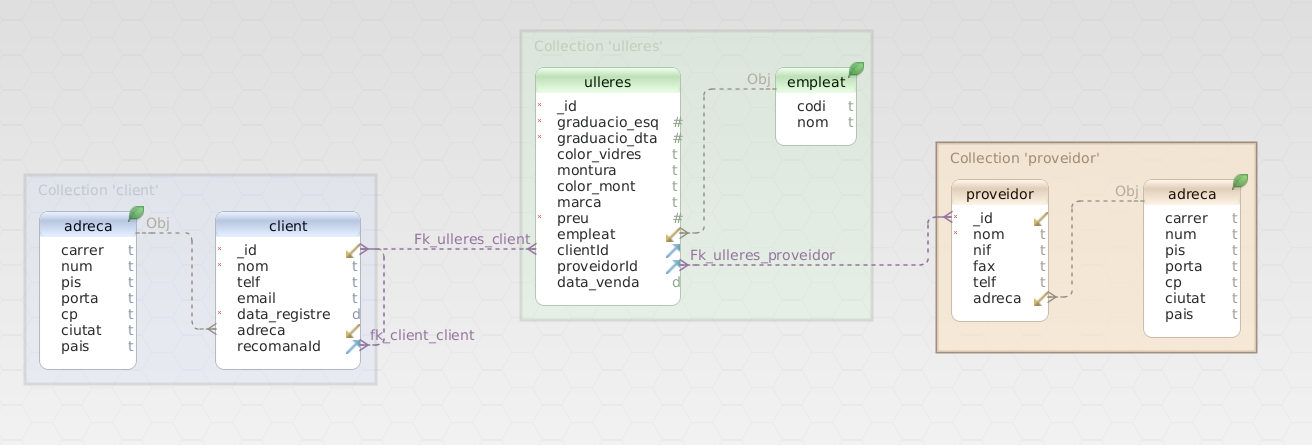
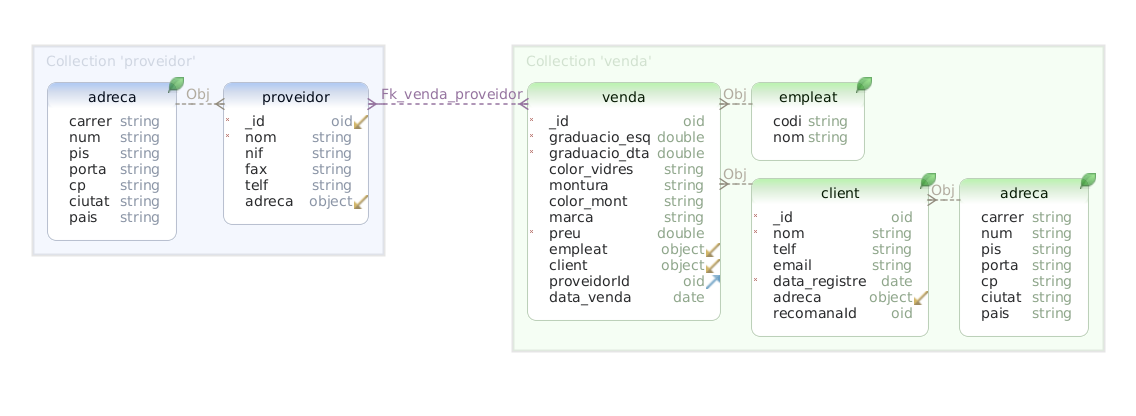
Corregida estructura Optica

diff --git a/2.3_Mongo_estructura/N1_Ex1_optica_schema.js b/2.3_Mongo_estructura/N1_Ex1_optica_schema.js
@@ -4,7 +4,7 @@ const { ObjectId } = require("bson");
 /**
  * Connexió dal servidor
  */
- const url = 'mongodb://172.17.0.4:27017'; // mongodb docker
+ const url = 'mongodb://172.20.0.2:27017'; // mongodb docker
 /**
  * Base de dades
  */
@@ -43,39 +43,10 @@ const schemaBD = {
       }
     }
   },
-  client: {
+  venda: {
     $jsonSchema: {
       bsonType: 'object',
-      title: 'client',
-      additionalProperties: false,
-      required: ['_id', 'nom', 'data_registre'],
-      properties: {
-        _id: { bsonType: 'objectId' },
-        nom: { bsonType: 'string' },
-        telf: { bsonType: 'string' },
-        email: { bsonType: 'string' },
-        data_registre: { bsonType: 'date' },
-        adreca: {
-          bsonType: 'object',
-          additionalProperties: false,
-          properties: {
-            carrer: { bsonType: 'string' },
-            num: { bsonType: 'string' },
-            pis: { bsonType: 'string' },
-            porta: { bsonType: 'string' },
-            cp: { bsonType: 'string' },
-            ciutat: { bsonType: 'string' },
-            pais: { bsonType: 'string' }
-          }
-        },
-        recomanaId: { bsonType: 'objectId' }
-      }
-    }
-  },
-  ulleres: {
-    $jsonSchema: {
-      bsonType: 'object',
-      title: 'ulleres',
+      title: 'venda',
       additionalProperties: false,
       required: ['_id', 'graduacio_esq', 'graduacio_dta', 'preu'],
       properties: {
@@ -95,7 +66,33 @@ const schemaBD = {
             nom: { bsonType: 'string' }
           }
         },
-        clientId: { bsonType: 'objectId', description: 'FK a client' },
+        client: {
+          bsonType: 'object',
+          title: 'client',
+          additionalProperties: false,
+          required: ['_id', 'nom', 'data_registre'],
+          properties: {
+            _id: { bsonType: 'objectId' },
+            nom: { bsonType: 'string' },
+            telf: { bsonType: 'string' },
+            email: { bsonType: 'string' },
+            data_registre: { bsonType: 'date' },
+            adreca: {
+              bsonType: 'object',
+              additionalProperties: false,
+              properties: {
+                carrer: { bsonType: 'string' },
+                num: { bsonType: 'string' },
+                pis: { bsonType: 'string' },
+                porta: { bsonType: 'string' },
+                cp: { bsonType: 'string' },
+                ciutat: { bsonType: 'string' },
+                pais: { bsonType: 'string' }
+              }
+            },
+            recomanaId: { bsonType: 'objectId' }
+          }
+        },
         proveidorId: { bsonType: 'objectId', description: 'FK a proveidor' },
         data_venda: { bsonType: 'date' }
       }
@@ -110,9 +107,6 @@ const schemaBD = {
 const indexBD = {
   proveidor: [
     { nif: 1 }
-  ],
-  client: [
-    { nom: 1 }
   ]
 };
 
@@ -125,16 +119,13 @@ const inserts = {
     {_id:ObjectId("619e4f4d96adebe31fc2dc29"),nom:'DistriOpti',nif:'12345678A'},
     {_id:ObjectId("619e4f8896adebe31fc2dc2a"),nom:'DisOpticas',nif:'12348768A'}
   ],
-  client: [
-    {_id:ObjectId("619e4faa96adebe31fc2dc2b"),nom:'Pere',data_registre:new Date(Date.now())},
-    {_id:ObjectId("619e4fbb96adebe31fc2dc2c"),nom:'Joan',data_registre:new Date(Date.now()),recomanaId:ObjectId("619e4faa96adebe31fc2dc2b")}
-  ],
-  ulleres: [
+  venda: [
     {_id:ObjectId("619e4fd796adebe31fc2dc2e"),graduacio_esq:0.5,graduacio_dta:1.4,color_vidres:'blanc',montura:'pasta',color_mont:'verd',marca:'Rayblan',preu:39.99,
-    empleat:{codi:'A002',nom:'Jordi'},clientId:ObjectId("619e4faa96adebe31fc2dc2b"),proveidorId:ObjectId("619e4f4d96adebe31fc2dc29"),data_venda:new Date('2021-02-02') },
+    empleat:{codi:'A002',nom:'Jordi'},client:{_id:ObjectId("619e4faa96adebe31fc2dc2b"),nom:'Pere',data_registre:new Date(Date.now())},
+    proveidorId:ObjectId("619e4f4d96adebe31fc2dc29"),data_venda:new Date('2021-02-02') },
     {_id:ObjectId("619e53fb96adebe31fc2dc2f"),graduacio_esq:2.5,graduacio_dta:1.9,color_vidres:'blanc',montura:'metal',color_mont:'negre',marca:'Optiglass',preu:69.99,
-    empleat:{codi:'C003',nom:'Pep'},clientId:ObjectId("619e4fbb96adebe31fc2dc2c"),proveidorId:ObjectId("619e4f4d96adebe31fc2dc29"),data_venda:new Date('2021-02-02') },
-
+    empleat:{codi:'C003',nom:'Pep'},client:{_id:ObjectId("619e4fbb96adebe31fc2dc2c"),nom:'Joan',data_registre:new Date(Date.now()),recomanaId:ObjectId("619e4faa96adebe31fc2dc2b")},
+    proveidorId:ObjectId("619e4f4d96adebe31fc2dc29"),data_venda:new Date('2021-02-02') },
   ]
 };
 
